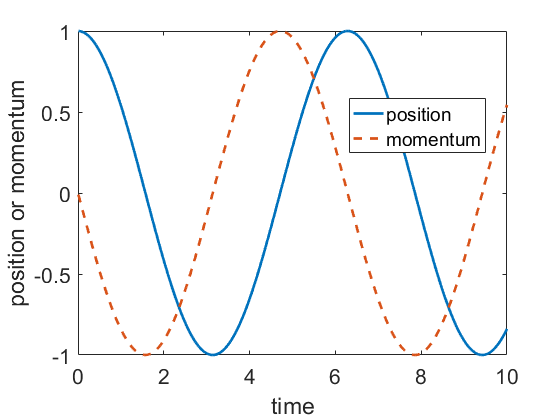
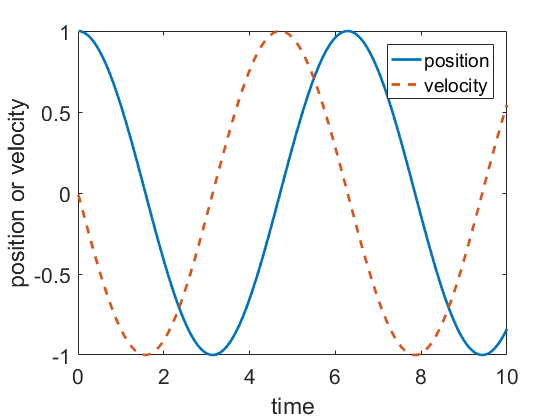
update verlet code

Changed region(s): [[0.0, 0.1857, 0.0607, 0.7429], [0.6071, 0.2167, 0.8804, 0.3714], [0.6982, 0.1238, 0.8804, 0.2476]]

diff --git a/chapter-1-classical-mechanics/src/harmonic_oscillator.m b/chapter-1-classical-mechanics/src/harmonic_oscillator.m
@@ -1,39 +1,41 @@
 clear; close all;
-m=1; lambda=1; dt=0.01; n_step=1000;
-p=0; q=1; 
-pp=zeros(n_step,1); qq=zeros(n_step,1);
+m=1; k=1; dt=0.01; n_step=1000;
+v=0; x=1; 
+v_vector=zeros(n_step,1); x_vector=zeros(n_step,1);
 for step=1:n_step
-    p=p-(dt/2)*m*lambda*lambda*q; 
-    q=q+(dt/m)*p;
-    p=p-(dt/2)*m*lambda*lambda*q;
-    pp(step,:)=p; qq(step,:)=q;
+    v=v-(dt/2)*k*x; 
+    x=x+dt*v;
+    v=v-(dt/2)*k*x; 
+    v_vector(step,:)=v; x_vector(step,:)=x;
 end
 
 figure;
-plot((1:n_step)*dt,qq,'linewidth',2);hold on;
-plot((1:n_step)*dt,pp,'--','linewidth',2);hold on;
+plot((1:n_step)*dt,x_vector,'linewidth',2);hold on;
+plot((1:n_step)*dt,v_vector,'--','linewidth',2);hold on;
 xlabel('time');
-ylabel('position or momentum');
-legend('position','momentum');
+ylabel('position or velocity');
+legend('position','velocity');
 set(gca,'fontsize',16);
 
+potential=0.5*k*x_vector.^2;
+kinetic=0.5*m*v_vector.^2;
 figure;
-plot((1:n_step)*dt,0.5*m*qq.^2,'linewidth',2);hold on;
-plot((1:n_step)*dt,pp.^2/m/2,'--','linewidth',2);hold on;
-plot((1:n_step)*dt,0.5*m*qq.^2+pp.^2/m/2,'-.','linewidth',3);hold on;
+plot((1:n_step)*dt,potential,'linewidth',2);hold on;
+plot((1:n_step)*dt,kinetic,'--','linewidth',2);hold on;
+plot((1:n_step)*dt,potential+kinetic,'-.','linewidth',3);hold on;
 xlabel('time');
 ylabel('Energy');
 legend('potential','kinetic','total');
 set(gca,'fontsize',16);
 
 figure;
-plot((1:n_step)*dt,0.5*m*qq.^2+pp.^2/m/2,'-.','linewidth',3);hold on;
+plot((1:n_step)*dt,potential+kinetic,'-.','linewidth',3);hold on;
 xlabel('time');
 ylabel('Total Energy');
 set(gca,'fontsize',16);
 
 figure;
-plot(qq,pp,'.','markersize',20);
+plot(x_vector,v_vector,'.','markersize',20);
 xlabel('position');
 ylabel('momentum');
 set(gca,'fontsize',16);
